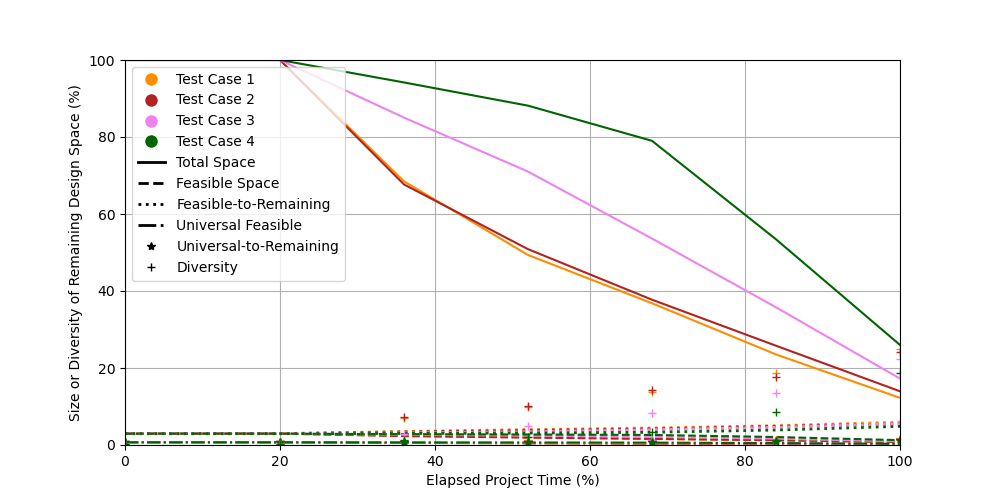
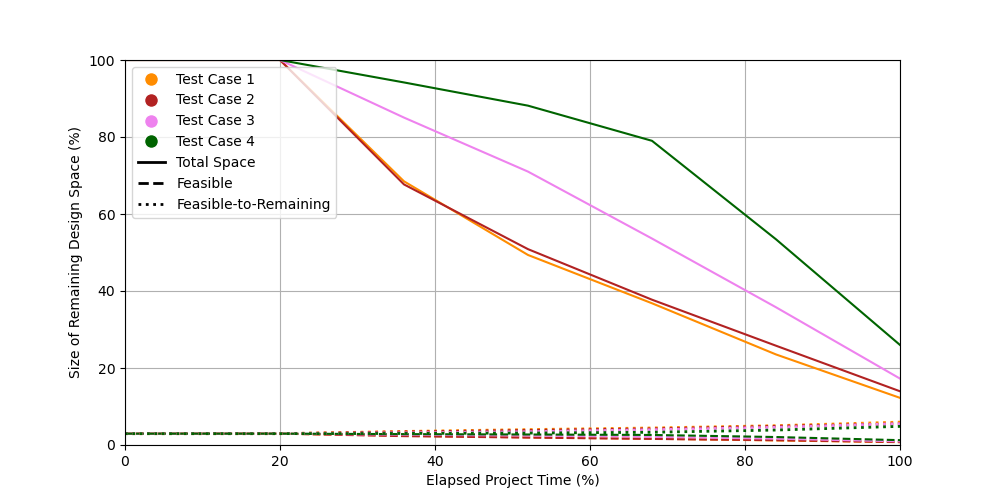
New results gathered

diff --git a/Python Code/Simulation_Results_050_DTC1/plot_data.py b/Python Code/Simulation_Results_050_DTC1/plot_data.py
@@ -117,12 +117,12 @@ def plotDisciplines(all_disciplines_data, feas1_disciplines_data,
     # Initialize colors, line styles, and markers
     colors = ['darkorange', 'firebrick', 'violet', 'darkgreen']
     # line_styles = ['-', '--', ':', '-.', 'None', 'None']
-    line_styles = ['-', '--', ':', '-.']
+    line_styles = ['-', '--', ':']
     # markers = ['', '', '', '', '*', '+']
-    markers = ['', '', '', '']
+    markers = ['', '', '']
     # data_groups = ['Total Space', 'Feasible Space', 'Feasible-to-Remaining',
     #                'Universal Feasible', 'Universal-to-Remaining', 'Diversity']
-    data_groups = ['Total Space', 'Feasible-to-Remaining', 'Feasible', 'Diversity']
+    data_groups = ['Total Space', 'Feasible', 'Feasible-to-Remaining']
     
     # Loop through each discipline's data
     for discipline, all_test_cases_data in all_disciplines_data.items():
@@ -173,11 +173,6 @@ def plotDisciplines(all_disciplines_data, feas1_disciplines_data,
         # color_idx = plotData(ufeas1_test_cases_data, 'uFeas1', line_styles[4], 
         #                      colors, 0, markers[4])
         
-        # Plot data for diversity of remaining design space
-        color_idx = 0
-        color_idx = plotData(diver_test_cases_data, 'Diver', line_styles[3],
-                             colors, 0, markers[3])
-        
         # Plot legend
         plt.legend(handles=color_handles+line_style_handles, loc='upper left')
         
@@ -216,60 +211,65 @@ def plotDiversity(discipline_data, data_type, linestyle, colors, marker=None):
         Marker style. Default is None, which means no marker
     """
     
-    # Initialize figure
-    plt.figure(figsize=(10, 5))
+    # Loop through each discipline's data
+    for discipline, all_test_cases_data in discipline_data.items():
     
-    color_idx = 0
-    
-    # Loop through each test case's data
-    for test_case, data_points in discipline_data.items():
+        # Initialize figure
+        plt.figure(figsize=(10, 5))
         
-        # Sort data points by its time iteration keys
-        sorted_data_points = sorted(data_points.items(), key=lambda x: x[0])
+        # Initiatlize color index
+        color_idx = 0
         
-        # Find maximum of sorted data
-        max_iteration = max(sorted_data_points, key=lambda x: x[0])[0]
+        # Loop through each test case's data
+        for test_case, data_points in all_test_cases_data.items():
+            
+            # Sort data points by its time iteration keys
+            sorted_data_points = sorted(data_points.items(), key=lambda x: x[0])
+            
+            # Find maximum of sorted data
+            max_iteration = max(sorted_data_points, key=lambda x: x[0])[0]
+            
+            # Gather x and y data point percentages
+            x_values = [iteration / max_iteration * 100 \
+                        for iteration, _ in sorted_data_points]
+            y_values = [value for _, value in sorted_data_points]
+            
+            # Define custom linewidth for particular line styles
+            if linestyle == ':':
+                linewidth = 2.0
+            else:
+                linewidth = 1.5
+            
+            # Plot the data
+            plt.plot(x_values, y_values, label=f'{data_type} {test_case}',
+                     color=colors[color_idx % len(colors)], linestyle=linestyle, 
+                     linewidth=linewidth, marker=marker)
+            
+            # Increase the color index by 1
+            color_idx += 1
         
-        # Gather x and y data point percentages
-        x_values = [iteration / max_iteration * 100 \
-                    for iteration, _ in sorted_data_points]
-        y_values = [value for _, value in sorted_data_points]
+        # Create custom legend labels
+        custom_legend = [Line2D([0], [0], color=colors[i % len(colors)], 
+                                linestyle=linestyle, linewidth=2, marker=marker, 
+                                label=f'Test Case {i+1}') \
+                         for i in range(len(all_test_cases_data))]
         
-        # Define custom linewidth for particular line styles
-        if linestyle == ':':
-            linewidth = 2.0
-        else:
-            linewidth = 1.5
+        # Plot legend
+        plt.legend(handles=custom_legend, loc='upper left')
         
-        # Plot the data
-        plt.plot(x_values, y_values, label=f'{data_type} {test_case}',
-                 color=colors[color_idx % len(colors)], linestyle=linestyle, 
-                 linewidth=linewidth, marker=marker)
+        # Set x- and y-axis labels
+        plt.xlabel('Elapsed Project Time (%)')
+        plt.ylabel('Discrepancy of Remaining Designs')
         
-        # Increase the color index by 1
-        color_idx += 1
-    
-    # Create custom legend labels
-    custom_legend = [Line2D([0], [0], color=colors[i % len(colors)], 
-                            linestyle=linestyle, linewidth=2, marker=marker, 
-                            label=f'{data_type} {i+1}') \
-                     for i in range(len(discipline_data))]
-    
-    # Plot legend
-    plt.legend(handles=custom_legend, loc='upper left')
-    
-    # Set x- and y-axis labels
-    plt.xlabel('Elapsed Project Time (%)')
-    plt.ylabel('Diversity of Remaining Designs')
-    
-    # Set x- and y-axis limits
-    plt.xlim([0, 100])
-    
-    # Plot gridlines
-    plt.grid(True)
-    
-    # Show graph
-    plt.show()
+        # Set x- and y-axis limits
+        plt.xlim([0, 100])
+        plt.ylim([0, 0.3])
+        
+        # Plot gridlines
+        plt.grid(True)
+        
+        # Show graph
+        plt.show()
 
 
 def plotHeatmaps(test_case_data, discipline_index, ins):
